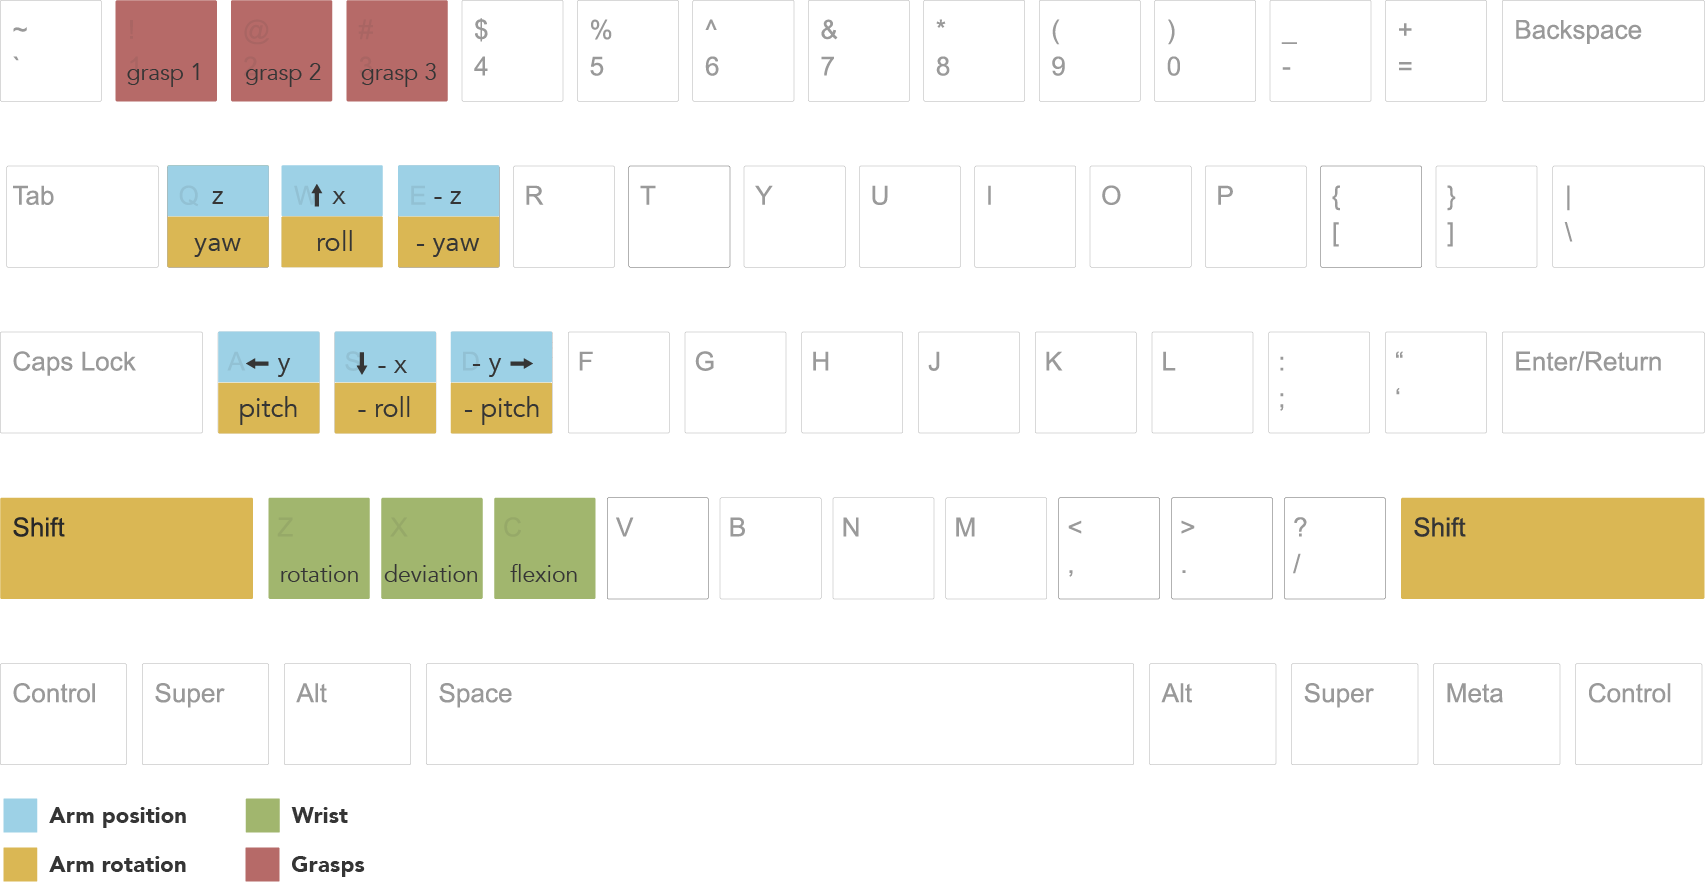
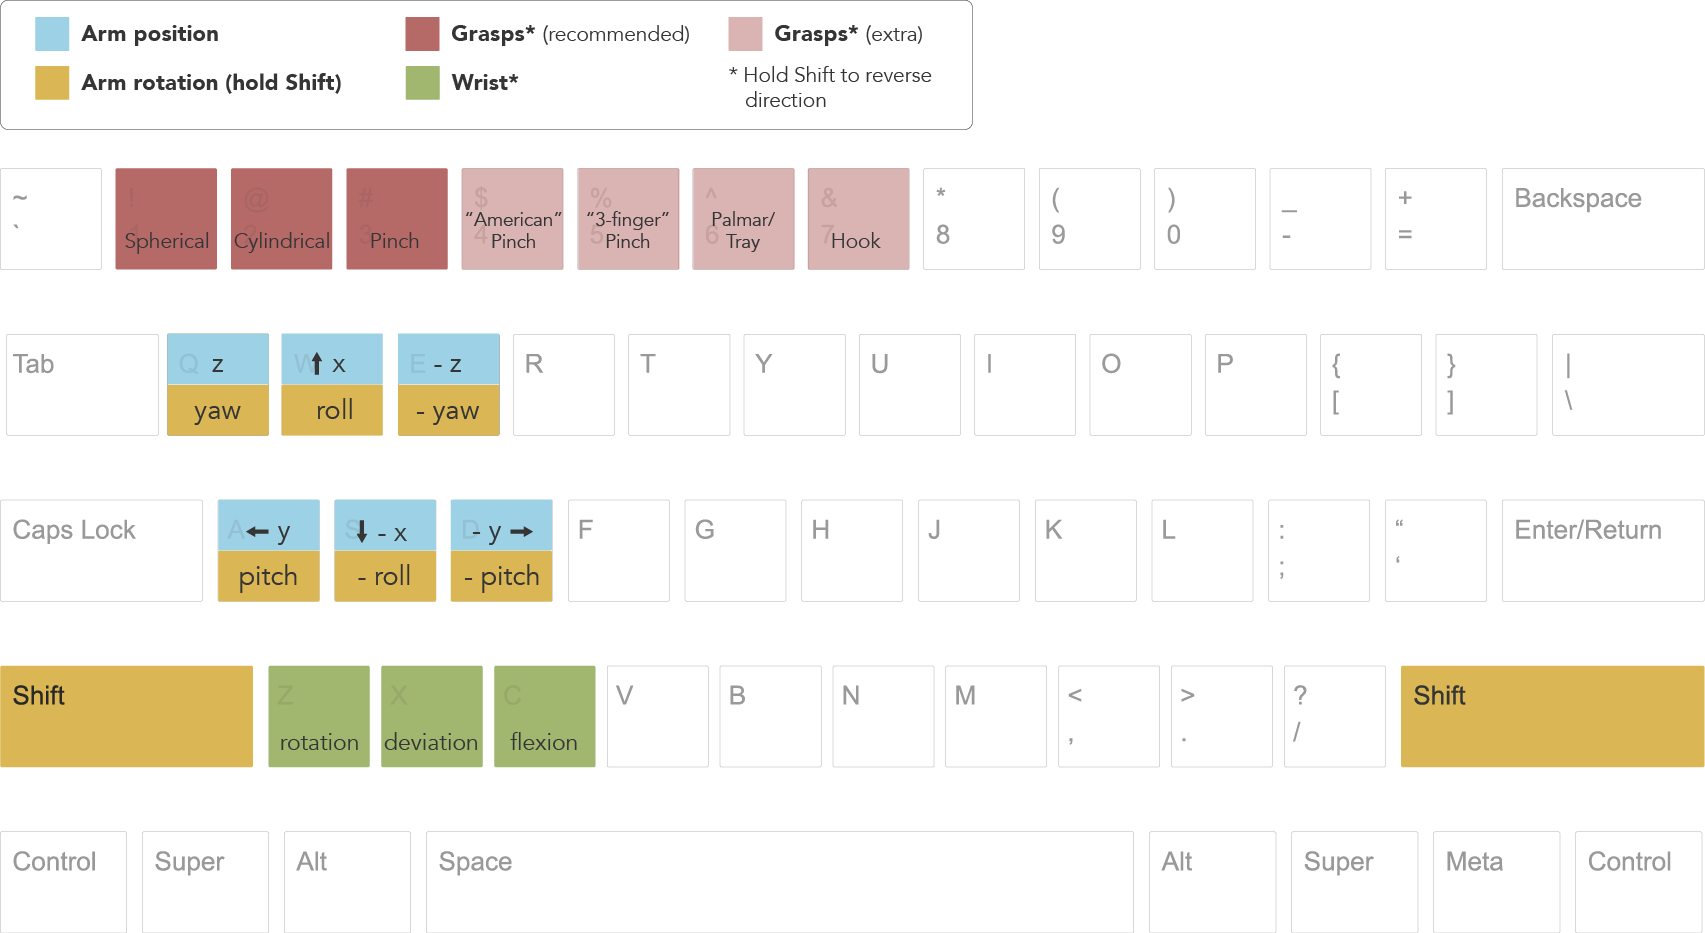
Corrections to reference guide

diff --git a/doc/referenceguide.tex b/doc/referenceguide.tex
@@ -45,12 +45,12 @@
     \begin{tcolorbox}[height=6.5cm,colback=gray!8,colframe=gray!15]
       \section*{Quick Start}
       \begin{enumerate}
-        \item Plugin Optitrack, and put on the 3D glasses and forearm markers.\\
+        \item Plug in OptiTrack, and put on the 3D glasses and forearm markers.\\
           \textcolor{blue}{http://gazebosim.org/haptix/tutorials/optitrack}
         \item Click the Gazebo desktop icon.
         \item Align your arm to roughly match the MPL arm's pose in simulation.
         \item Press the space bar to start motion tracking.
-        \item Use keyboard for grasping.
+        \item Use keyboard for grasping (see reverse).
       \end{enumerate}
     \end{tcolorbox}
   \end{minipage}%
@@ -58,10 +58,11 @@
   \begin{minipage}[t]{0.48\textwidth}
     \begin{tcolorbox}[height=6.5cm,colback=gray!8,colframe=gray!15]
       \section*{Stereo Display \textcolor{blue}{\textnormal{\small http://gazebosim.org/haptix/tutorials/stereo}}}
-      Stereo rendering is enable by default, and simulation will look blurry. Use the Nvidia 3D glasses to see simulation in 3D.\\
+      Stereo rendering is enabled by default, and simulation will look blurry. Use the Nvidia 3D glasses to see simulation in 3D.\\
 
       {\bf Sync:} With glasses on, press the button on the frame's left side.\\
-      {\bf Enable/disable:} Use the {\em Stereo} checkbox in the onscreen GUI.\\
+      \newline
+      {\bf Enable/disable:} Use the {\em Stereo} checkbox in the on-screen GUI.\\
     \end{tcolorbox}
   \end{minipage}
 \end{figure}
@@ -75,7 +76,7 @@
       \begin{itemize}
         \item Install: \textcolor{blue}{http://gazebosim.org/haptix/tutorials/install}
         \item Teleoperation: \textcolor{blue}{http://gazebosim.org/haptix/tutorials/teleop}
-        \item Optitrack: \textcolor{blue}{http://gazebosim.org/haptix/tutorials/optitrack}
+        \item OptiTrack: \textcolor{blue}{http://gazebosim.org/haptix/tutorials/optitrack}
         \item C-API: \textcolor{blue}{http://gazebosim.org/haptix/tutorials/capi}
         \item Matlab-API: \textcolor{blue}{http://gazebosim.org/haptix/tutorials/matlab}
       \end{itemize}
@@ -113,12 +114,12 @@
   \hspace{0.02\textwidth}%
   \begin{minipage}[t]{0.48\textwidth}
     \begin{tcolorbox}[height=6cm,colback=gray!8,colframe=gray!15]
-      \section*{Optitrack \textcolor{blue}{\textnormal{\small http://gazebosim.org/haptix/tutorials/optitrack}}}
+      \section*{OptiTrack \textcolor{blue}{\textnormal{\small http://gazebosim.org/haptix/tutorials/optitrack}}}
       {\bf Purpose:} Control viewpoint and arm position.\\
       {\bf Use:}
       \begin{enumerate}
-        \item Make sure Optitrack is plugged in.
-        \item Wear the 3D glasses, and arm band. 
+        \item Make sure OptiTrack is plugged in.
+        \item Wear the 3D glasses and arm band. 
         \item Press space bar to enable/disable tracking. 
         \item Make sure the camera can always see the markers.
       \end{enumerate}
@@ -131,6 +132,7 @@
   \begin{tcolorbox}[colback=gray!8,colframe=gray!15]
 
     \section*{Keyboard Teleoperation \textcolor{blue}{\textnormal{\small http://gazebosim.org/haptix/tutorials/teleop}}}
+      {\bf Purpose:} Control hand to grasp objects.\\
 
     \begin{figure}[H]
       \centering
